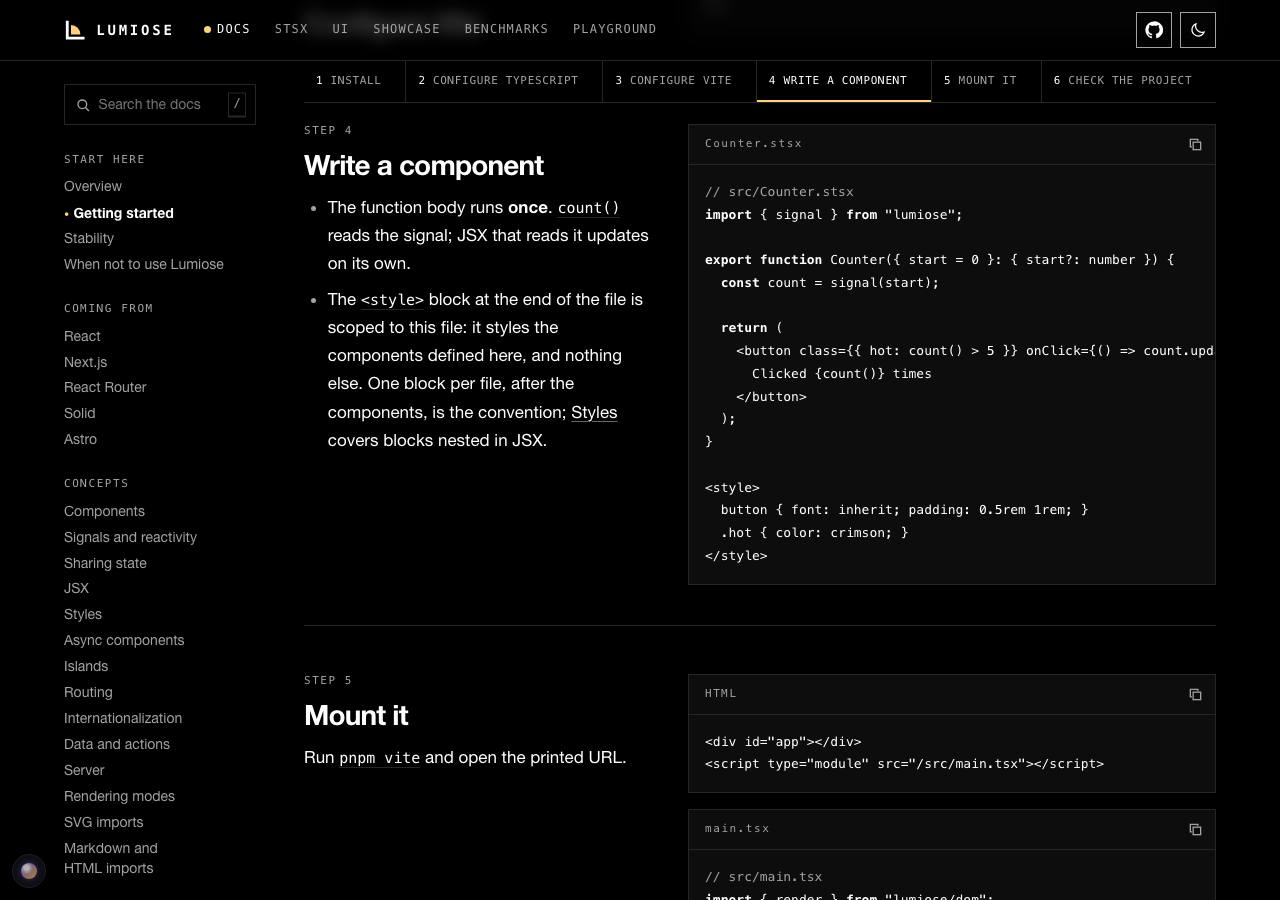
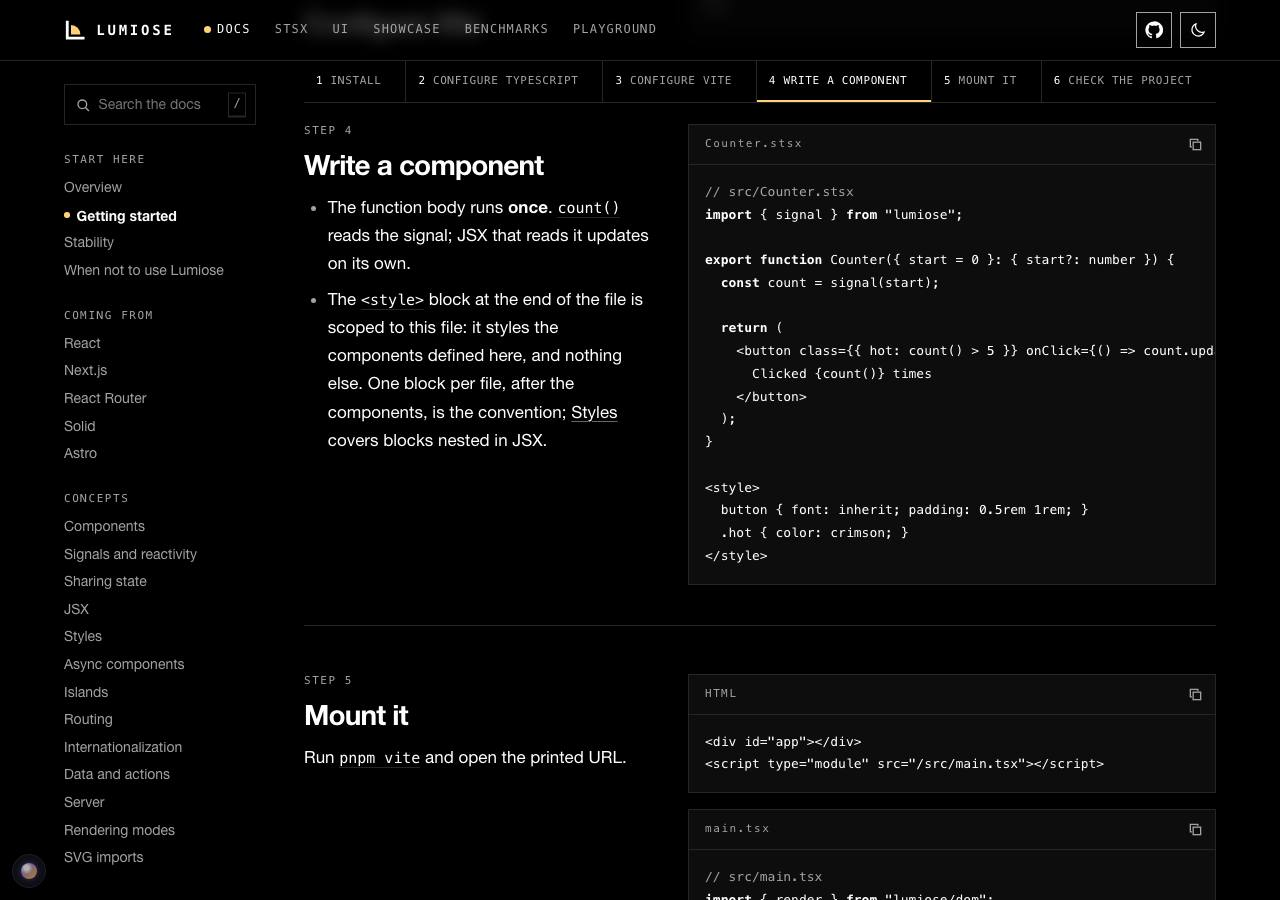
fix(web): the sidebar's current-page dot is drawn, so it stays out of the link's name (TASK-608)
Closes the task: notes with the layout rule for the docs writers, the
validation results and the final screenshots.

Changed region(s): [[0.0312, 0.5289, 0.1562, 0.9644], [0.0312, 0.3422, 0.125, 0.4978], [0.0312, 0.1867, 0.1875, 0.3111]]

diff --git a/backlog/tasks/task-608 - Docs-layout-words-beside-the-code-they-describe.md b/backlog/tasks/task-608 - Docs-layout-words-beside-the-code-they-describe.md
@@ -1,10 +1,11 @@
 ---
 id: TASK-608
 title: 'Docs layout: words beside the code they describe'
-status: To Do
+status: Done
 assignee:
   - '@Beacon'
 created_date: '2026-11-17T12:29:00Z'
+updated_date: '2026-11-17T14:22:00Z'
 labels: []
 milestone: m-16
 dependencies:
@@ -22,9 +23,36 @@ Rebuild DocsShell and DocArticle to the reference: a slim sidebar, a large page 
 
 ## Acceptance Criteria
 <!-- AC:BEGIN -->
-- [ ] #1 A section with prose and code renders as two columns on desktop and stacks on phones; a section without code stays one readable column
-- [ ] #2 Pages with numbered steps get the sticky step bar, built from their headings
-- [ ] #3 Sidebar, search, previous and next links and the on-page anchors keep working; URLs do not change
-- [ ] #4 llms.txt, llms-full.txt and the Markdown sources are unaffected by the layout
-- [ ] #5 docs:check, the docs tests and the web e2e and a11y suites pass
+- [x] #1 A section with prose and code renders as two columns on desktop and stacks on phones; a section without code stays one readable column
+- [x] #2 Pages with numbered steps get the sticky step bar, built from their headings
+- [x] #3 Sidebar, search, previous and next links and the on-page anchors keep working; URLs do not change
+- [x] #4 llms.txt, llms-full.txt and the Markdown sources are unaffected by the layout
+- [x] #5 docs:check, the docs tests and the web e2e and a11y suites pass
 <!-- AC:END -->
+
+## Implementation Notes
+
+<!-- SECTION:NOTES:BEGIN -->
+Beacon (beacon-20261117-t608). The layout rule, for the docs writers (code: layoutRows and readSteps in apps/web/src/content/docs.ts; unit tests in docs-layout.test.ts):
+
+- A section is a ## or ### heading and what follows it up to the next ## or ### (plus the page's start before its first heading). #### stays inside its section.
+- Two columns: inside a section, a run of words (the heading counts) that is directly followed by one or more top-level fenced code blocks is a pair: the words on the left, those code blocks on the right. From 48rem up; below it everything stacks in source order.
+- Words after the code: when the left side holds only the heading, and no other code follows them, they go under the heading, beside the code. Otherwise they are a full row of their own.
+- One column: words with no code after them (max 68ch), and tables (the article's full width; a table never goes into a column and ends the pair before it). Code with no words around it is also one column. Code nested in a list item stays in the words.
+- Step bar: the page gets it when at least two ## headings start with a number and a dot (## 1. Install) and those numbers count 1, 2, 3 in order. The heading then shows 'Step N' as a label above its title; its id keeps the number (#1-install), so URLs do not change. The bar's labels are the heading texts: keep them short (six of them fit at 1280 px with about 16 characters each; the bar scrolls sideways when they do not fit).
+- So for the writers: one short paragraph, then its code, per ## or ### gives the words-beside-code look; a long explanation after an example with words before it becomes a full row; a section with a table and no code stays one column.
+
+Other decisions: the right-hand 'On this page' column became a closed disclosure under the page head (there is no room for a third column), also shown on phones now. DocPage.blocks keeps its old shape (TASK-614's ui-gallery reads it); the layout reads the new DocPage.sections. New tests live in their own files (src/content/docs-layout.test.ts, e2e/docs.e2e.ts) because content.test.ts, web.e2e.ts and a11y.e2e.ts carried other workers' uncommitted changes.
+
+Validation (2026-11-17): lumiose check clean; apps/web vitest 53 passed; docs:check and the docs tests (packages/cli/src/docs, packages/stsx) pass; pnpm typecheck and pnpm lint clean; no horizontal overflow at 390, 900 and 1280 px in both themes on ten docs, /ui and /stsx pages (and 320 px in the a11y reflow test). Playwright on the static build: docs.e2e.ts, web.e2e.ts and ui.e2e.ts 28 passed; a11y.e2e.ts ran in full once (4 failures: two were this task's and are fixed and re-run green: a demo widening a 320 px page, 23 px sidebar links; one was a UI test tripping on the sidebar dot's character, fixed by drawing the dot).
+
+Left open, outside this task's files: the a11y test 'text keeps AA contrast over decorative layers at their strongest (light)' failed on the header's navigation links (4.36:1 over a beam) and on .primary.btn (white on amber, about 2:1) on every page; none of its entries is a docs-layout element. It belongs to the header/beams and button work (TASK-605, TASK-606, site-kit) and was not re-run after their later changes. The e2e webServer could not rebuild the playground's WebAssembly here (the installed wasm-bindgen CLI is 0.2.129, the workspace pins 0.2.130), so the suites ran against a hand-started static build with the existing playground assets; playground.e2e.ts was not run.
+
+Screenshots: backlog/assets/redesign/task-608-getting-started-light.jpg, task-608-getting-started-dark.jpg, task-608-getting-started-step-dark.jpg (step bar, step 4 current), task-608-getting-started-phone.jpg, task-608-signals-light.jpg, task-608-signals-dark.jpg.
+<!-- SECTION:NOTES:END -->
+
+## Final Summary
+
+<!-- SECTION:FINAL_SUMMARY:BEGIN -->
+The docs shell and article follow the First light reference: a slim sidebar with mono group labels and a dot on the current page, a large page head with the summary beside it, sections with their words on the left and their code on the right (stacked in source order below 48rem), and a sticky step bar on pages whose ## headings are numbered steps (an island marks the step being read). The layout is derived from the Markdown alone (layoutRows and readSteps in apps/web/src/content/docs.ts); no authoring syntax was added and no doc page, llms.txt or URL changed. 'On this page' is now a disclosure under the head. The rule for writers is in the notes.
+<!-- SECTION:FINAL_SUMMARY:END -->
